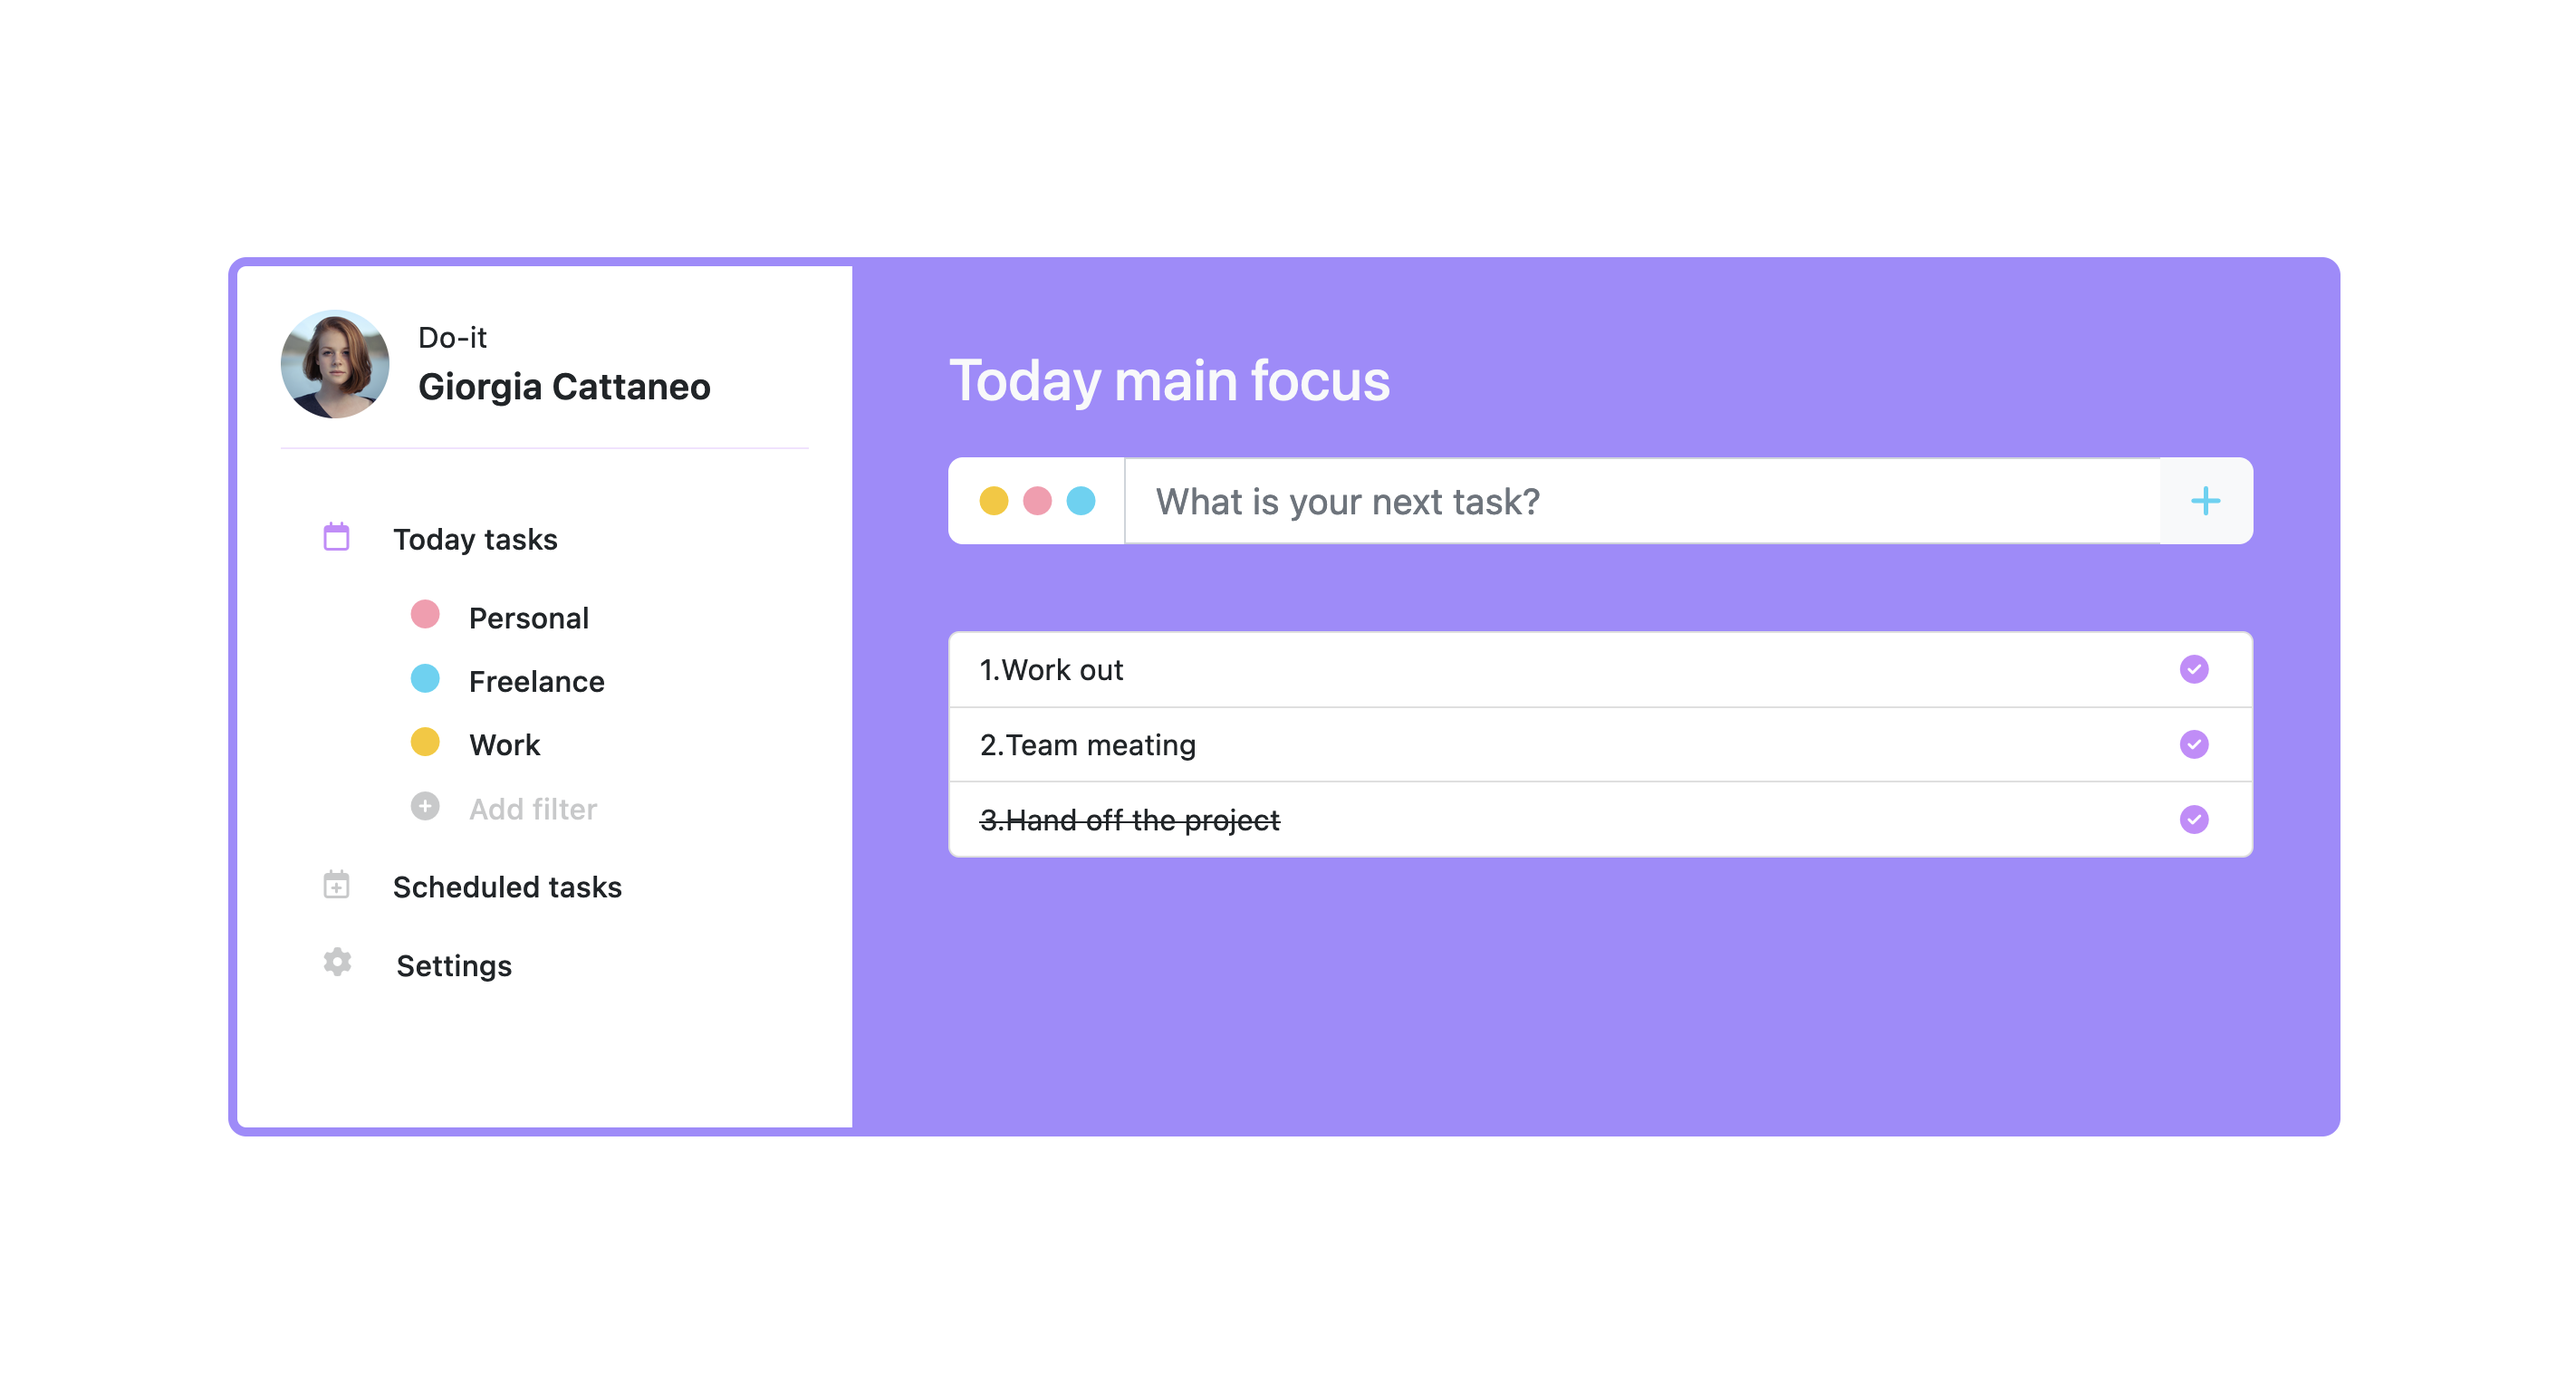
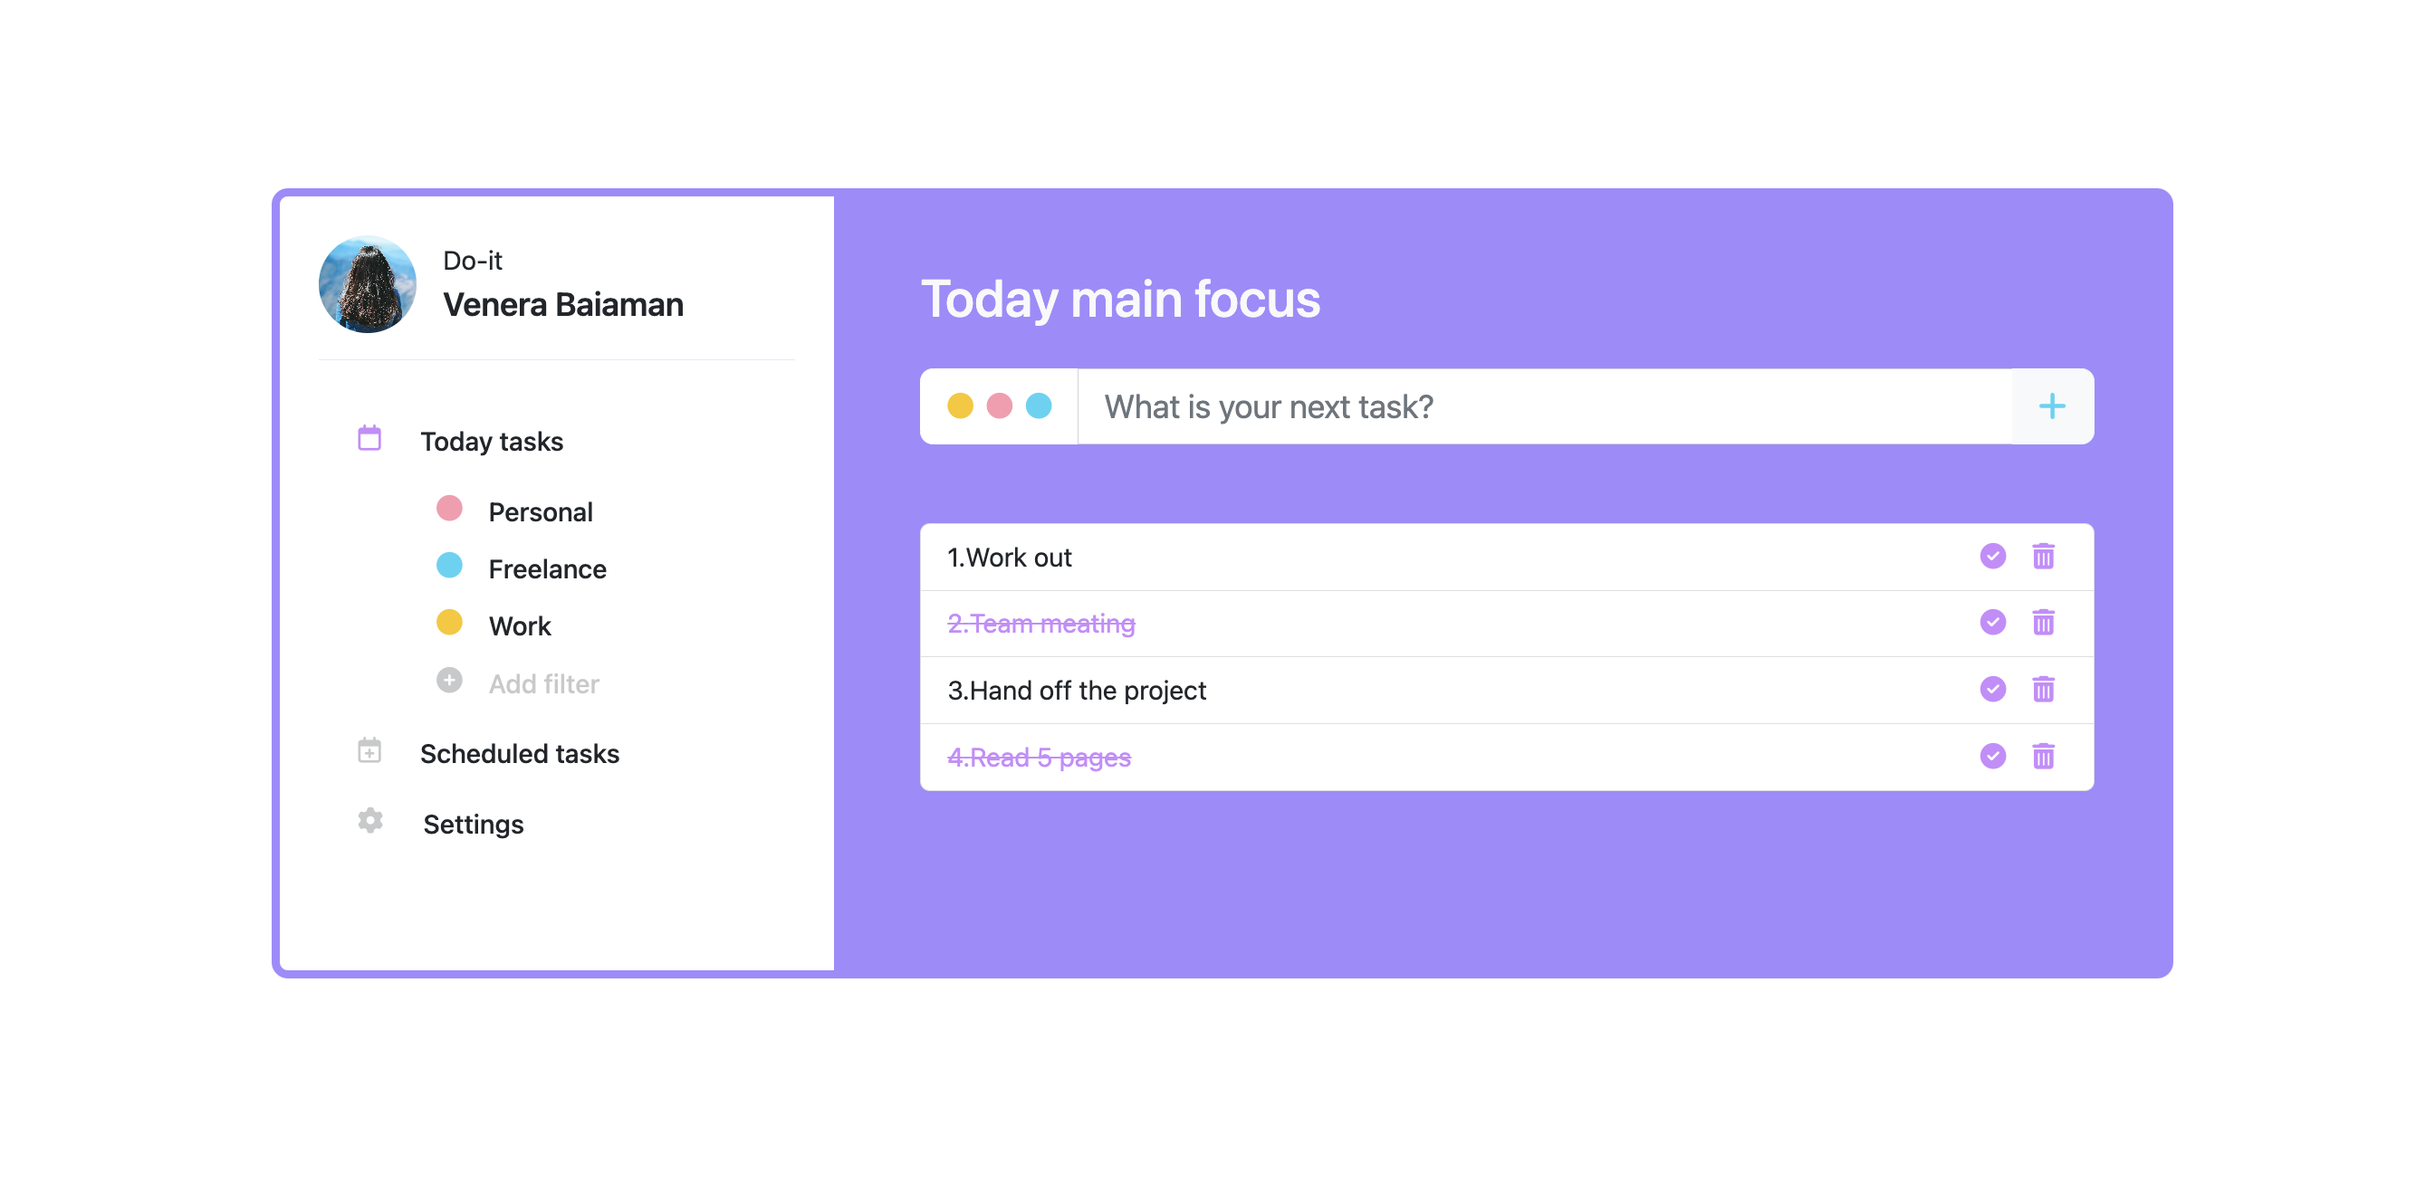
+ mod & bonus

Changed region(s): [[0.0622, 0.1544, 0.9333, 0.8336]]

diff --git a/index.html b/index.html
@@ -106,7 +106,7 @@
               ></span>
 
               <input
-                v-model="newTask"
+                v-model="newTask.text"
                 type="text"
                 class="form-control"
                 placeholder="What is your next task?"
@@ -120,14 +120,15 @@
             </div>
 
             <!-- lista di ToDo-->
-            <ul class="list-group list-group-numbered">
+            <ul class="list-group">
               <li
-                @click="trueFalse(index)"
                 v-for="(task, index) in tasks"
                 class="list-group-item d-flex align-items-center"
-                :class="(task.done) ? '' : 'lineThrough' "
+                :class="(task.done) ? 'lineThrough' : '' "
               >
-                {{ task.text }}
+                <span @click="doneToDo(task)">
+                  {{index}} . {{ task.text }}</span
+                >
                 <span @click="removeTask(index)" class="badge ms-auto"
                   ><i class="fa-solid fa-circle-check border-color fs-6"></i
                   ><i class="fa-solid fa-trash-can border-color fs-6 ms-3"></i

diff --git a/js/main.js b/js/main.js
@@ -10,27 +10,34 @@ createApp({
         { text: "Read 5 pages", done: false },
       ],
 
-      newTask: "",
-      taskHaveToDO: "lineThrough",
+      newTask: {
+        text: "",
+        done: false,
+      },
     };
   },
 
   methods: {
     addTask() {
-      // console.log(this.newTask);
-      this.tasks.push({ text: this.newTask, done: true });
+      const newTaskCopy = {
+        ...this.newTask,
+      };
+
+      const newTaskCopy2 = {
+        text: this.newTask.text,
+        done: false,
+      };
+
+      this.tasks.push(newTaskCopy);
+      this.newTask.text = "";
     },
 
     removeTask(i) {
       this.tasks.splice(i, 1);
     },
 
-    // lineThrough(i) {
-    //   if (this.tasks[i].done) {
-    //     return;
-    //   } else {
-    //     return this.taskHaveToDO;
-    //   }
-    // },
+    doneToDo(task) {
+      task.done = !task.done;
+    },
   },
 }).mount("#app");

diff --git a/css/style.css b/css/style.css
@@ -57,4 +57,5 @@
 
 li {
   list-style: none;
+  cursor: pointer;
 }
